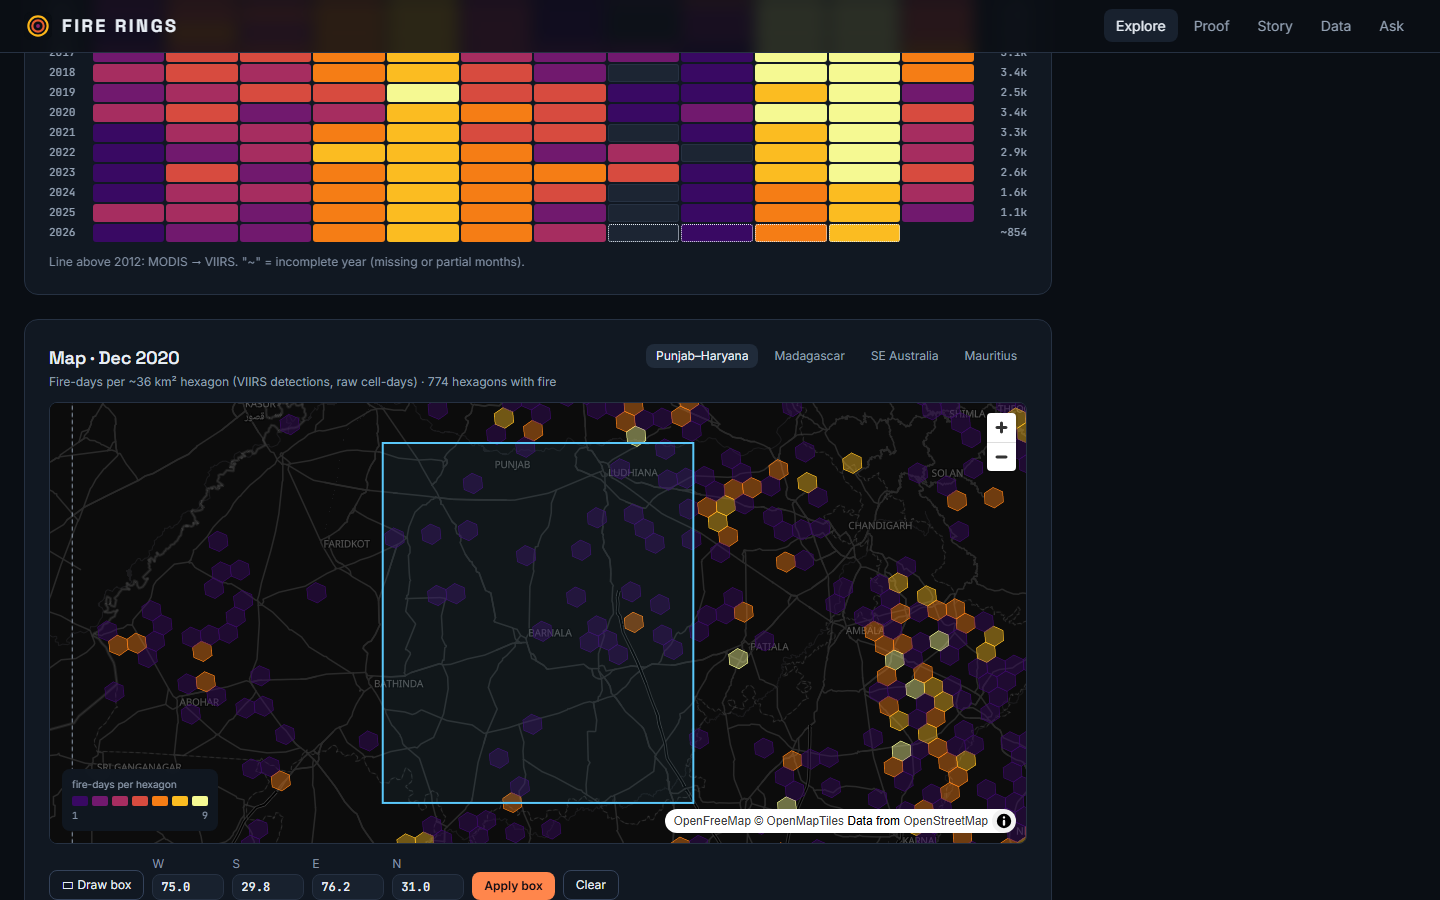
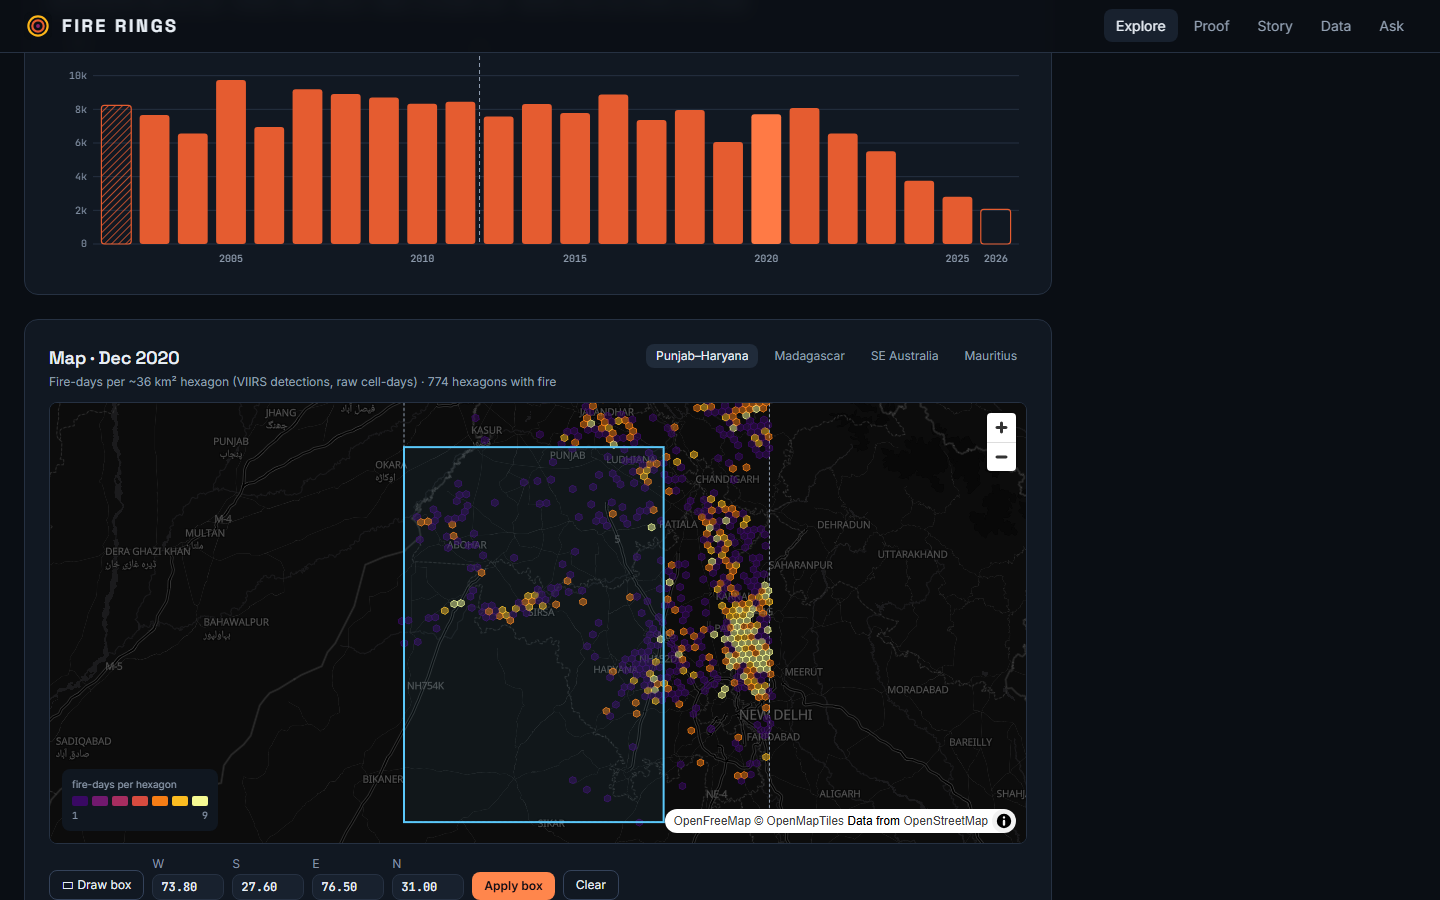
fix(#12,#15,#16,#52,#58): charts keep size; box keeps charts and is clipped; Ask turns keep their own errors; cache style label

diff --git a/web/src/components/MapView.tsx b/web/src/components/MapView.tsx
@@ -83,6 +83,8 @@ export default function MapView({ doc, y, m, box, onBox, live }: Props) {
   const navigate = useNavigate()
   const drawRef = useRef(false)
   drawRef.current = drawing
+  const [note, setNote] = useState<string | null>(null)
+  const submitRef = useRef<(b: Box) => void>(() => {})
 
   useEffect(() => {
     if (!el.current) return
@@ -140,10 +142,7 @@ export default function MapView({ doc, y, m, box, onBox, live }: Props) {
       start = null
       mp.dragPan.enable()
       setDrawing(false)
-      if (b[2] - b[0] > 0.02 && b[3] - b[1] > 0.02) {
-        setInputs(b.map((v) => v.toFixed(2)))
-        onBox(b)
-      }
+      if (b[2] - b[0] > 0.02 && b[3] - b[1] > 0.02) submitRef.current(b)
     })
     return () => { mp.remove(); map.current = null }
     // eslint-disable-next-line react-hooks/exhaustive-deps
@@ -198,13 +197,28 @@ export default function MapView({ doc, y, m, box, onBox, live }: Props) {
 
   useEffect(() => { if (map.current) map.current.getCanvas().style.cursor = drawing ? 'crosshair' : '' }, [drawing])
 
+  // QA #16: a box can only cover data that exists → clip it to the region's data area; refuse boxes outside it
+  const clip = (b: Box): Box | null => {
+    const r = doc.bbox
+    const c: Box = [Math.max(b[0], r[0]), Math.max(b[1], r[1]), Math.min(b[2], r[2]), Math.min(b[3], r[3])]
+    return c[0] < c[2] && c[1] < c[3] ? c : null
+  }
+  const submit = (b: Box) => {
+    const c = clip(b)
+    if (!c) { setErr(`This box is outside ${doc.name}. Only data inside the dotted data area is available.`); setNote(null); return }
+    const changed = c.some((v, i) => Math.abs(v - b[i]) > 1e-6)
+    setErr(null)
+    setNote(changed ? `Only data inside ${doc.name} is available — box clipped to ${c.map((v) => v.toFixed(2)).join(', ')}.` : null)
+    setInputs(c.map((v) => v.toFixed(2)))
+    onBox(c)
+    map.current?.fitBounds(c as [number, number, number, number], { padding: 40 })
+  }
   const apply = () => {
     const v = inputs.map(Number)
-    if (v.some((x) => !Number.isFinite(x)) || v[0] >= v[2] || v[1] >= v[3]) { setErr('Box must be W < E and S < N (decimal degrees).'); return }
-    setErr(null)
-    onBox(v as Box)
-    map.current?.fitBounds(v as [number, number, number, number], { padding: 40 })
+    if (v.some((x) => !Number.isFinite(x)) || v[0] >= v[2] || v[1] >= v[3]) { setErr('Box must be West < East and South < North (decimal degrees).'); return }
+    submit(v as Box)
   }
+  submitRef.current = submit
   const inset = doc.geo?.inset
   const toggleInset = () => {
     if (!inset || !map.current) return
@@ -274,7 +288,7 @@ export default function MapView({ doc, y, m, box, onBox, live }: Props) {
           </label>
         ))}
         <button onClick={apply} className="rounded-sm bg-accent px-3 py-1.5 font-semibold text-bg hover:brightness-110">Apply box</button>
-        {box && <button onClick={() => { onBox(null); setInputs(view.map((v) => v.toFixed(2))) }}
+        {box && <button onClick={() => { onBox(null); setNote(null); setInputs(view.map((v) => v.toFixed(2))) }}
           className="rounded-sm border border-border-strong px-3 py-1.5 text-text hover:bg-surface-2">Clear</button>}
         {live?.ok && (
           <label className="ml-auto flex items-center gap-1.5 text-muted">
@@ -283,6 +297,7 @@ export default function MapView({ doc, y, m, box, onBox, live }: Props) {
           </label>
         )}
       </div>
+      {note && <p className="mt-2 rounded-sm border border-warn/40 bg-warn/10 px-3 py-1.5 text-xs text-warn" role="status">{note}</p>}
       <p className="mt-2 text-xs text-muted">Hexagons are ~36 km² on purpose: counting presence per hexagon lets old and new satellites be compared fairly. Zoom in to see individual detections.</p>
       <p className="mt-1 text-xs text-faint">
         {small ? 'Detections are shown for every month in this small region.' : pts?.available ? `Individual detections appear from zoom ${POINT_ZOOM}.` : `Individual detections are published for the latest months (${doc.hotspot_months.join(', ')}); older months show hexagons only.`}

diff --git a/web/src/components/AskPanel.tsx b/web/src/components/AskPanel.tsx
@@ -4,29 +4,30 @@ import type { Answer, Voice } from '../lib/ask'
 import { REGIONS } from '../lib/regions'
 import AnswerCard from './AnswerCard'
 
+/** One question and what happened to it — errors stay attached to their own question (QA #58). */
+interface Turn { id: number; question: string; region: string; voice: Voice; status: 'loading' | 'done' | 'error'; answer?: Answer; error?: string }
+
 /** Chat with the grounded analyst. Used in the region drawer and on /ask. */
 export default function AskPanel({ initialRegion, initialQuestion, compact }: { initialRegion?: string; initialQuestion?: string; compact?: boolean }) {
   const [region, setRegion] = useState(initialRegion ?? 'punjab')
   const [voice, setVoice] = useState<Voice>('responder')
   const [q, setQ] = useState('')
-  const [busy, setBusy] = useState(false)
-  const [err, setErr] = useState<string | null>(null)
-  const [answers, setAnswers] = useState<Answer[]>([])
+  const [turns, setTurns] = useState<Turn[]>([])
   const asked = useRef(false)
+  const nextId = useRef(1)
+  const busy = turns.some((t) => t.status === 'loading')
 
   const send = async (question: string) => {
     const text = question.trim()
     if (!text || busy) return
-    setBusy(true)
-    setErr(null)
+    const id = nextId.current++
+    setTurns((ts) => [{ id, question: text, region, voice, status: 'loading' }, ...ts])
+    setQ('')
     try {
       const a = await askFireRings(text, region, voice)
-      setAnswers((xs) => [a, ...xs])
-      setQ('')
+      setTurns((ts) => ts.map((t) => (t.id === id ? { ...t, status: 'done', answer: a } : t)))
     } catch (e) {
-      setErr(`${(e as Error).message}. The charts and numbers on every page still work; the suggested questions may have saved answers.`)
-    } finally {
-      setBusy(false)
+      setTurns((ts) => ts.map((t) => (t.id === id ? { ...t, status: 'error', error: (e as Error).message } : t)))
     }
   }
 
@@ -64,9 +65,25 @@ export default function AskPanel({ initialRegion, initialQuestion, compact }: { 
           {busy ? 'Thinking…' : 'Ask'}
         </button>
       </form>
-      {busy && <div className="h-20 animate-pulse rounded-sm bg-surface-2" aria-label="Waiting for answer" />}
-      {err && <p className="rounded-sm border border-danger/40 bg-danger/10 px-3 py-2 text-xs text-danger" role="alert">{err}</p>}
-      <div className="space-y-3">{answers.map((a, i) => <AnswerCard key={answers.length - i} a={a} />)}</div>
+      <div className="space-y-3" aria-live="polite">
+        {turns.map((t) => (
+          <div key={t.id} data-turn={t.status} className="space-y-2">
+            {t.status === 'loading' && (
+              <div className="rounded-sm border border-border bg-surface-2 p-4 text-sm text-muted">
+                <span className="text-faint">You asked:</span> {t.question}
+                <div className="mt-2 flex items-center gap-2 text-xs"><span className="h-2 w-2 animate-pulse rounded-full bg-accent" />Thinking… looking up numbers</div>
+              </div>
+            )}
+            {t.status === 'error' && (
+              <div className="rounded-sm border border-border bg-surface-2 p-4 text-sm" role="alert">
+                <span className="text-faint">You asked:</span> <span className="text-text">{t.question}</span>
+                <p className="mt-2 text-muted">{t.error}. The charts and numbers on every page still work; the suggested questions have saved answers.</p>
+              </div>
+            )}
+            {t.status === 'done' && t.answer && <AnswerCard a={t.answer} />}
+          </div>
+        ))}
+      </div>
       <p className="text-[11px] text-faint">Answers come from Google Gemini using only numbers looked up from the Fire Rings record (see "Numbers used"). No forecasts.</p>
     </div>
   )

diff --git a/web/src/pages/Region.tsx b/web/src/pages/Region.tsx
@@ -15,6 +15,7 @@ import { useLive } from '../lib/live'
 import LiveBadge from '../components/LiveBadge'
 import { makeColorer } from '../lib/colors'
 import { calibrationSummary } from '../lib/calibration'
+import { boxDerived } from '../lib/boxDerived'
 import { calendarCsv, downloadPng, downloadText } from '../lib/exporters'
 import { fmtInt } from '../lib/format'
 import type { Box } from '../lib/hexes'
@@ -76,13 +77,17 @@ function RegionView({ doc: regionDoc }: { doc: RegionDoc }) {
     if (!box) return
     let alive = true
     import('../lib/hexes').then((h) => h.boxRecord(regionDoc, box))
-      .then((r) => alive && setBoxState({ status: 'ready', months: r.months, cells: r.cells }))
+      .then((r) => alive && setBoxState(r.cells > 0
+        ? { status: 'ready', months: r.months, cells: r.cells }
+        : { status: 'error', error: `No fire hexagons of ${regionDoc.name} fall inside this box since 2001 — showing the whole region.` }))
       .catch((e: Error) => alive && setBoxState({ status: 'error', error: e.message }))
     return () => { alive = false }
   }, [box, regionDoc])
 
   const boxed = box && boxState.status === 'ready' && boxState.months
-  const doc: RegionDoc = useMemo(() => (boxed ? { ...regionDoc, months: boxState.months! } : regionDoc), [boxed, regionDoc, boxState.months])
+  const doc: RegionDoc = useMemo(() => (boxed
+    ? { ...regionDoc, months: boxState.months!, ...boxDerived(regionDoc, boxState.months!) }
+    : regionDoc), [boxed, regionDoc, boxState.months])
   const effMode: CalMode = boxed ? 'counts' : mode
   const colorer = useMemo(() => makeColorer(doc, effMode, t), [doc, effMode, t])
   const grid = useMemo(() => toGrid(doc.months), [doc])
@@ -152,7 +157,7 @@ function RegionView({ doc: regionDoc }: { doc: RegionDoc }) {
             </div>
           )}
           {box && boxState.status === 'loading' && <p className="text-sm text-muted" aria-live="polite">Recomputing 2001–2026 for the box…</p>}
-          {box && boxState.status === 'error' && <p className="text-sm text-danger">Box failed: {boxState.error}</p>}
+          {box && boxState.status === 'error' && <p className="rounded-sm border border-warn/40 bg-warn/10 px-3 py-2 text-sm text-warn" role="status">{boxState.error}</p>}
 
           <section aria-labelledby="rings-h" className="card">
             <div className="mb-4 flex flex-wrap items-center justify-between gap-3">
@@ -199,10 +204,10 @@ function RegionView({ doc: regionDoc }: { doc: RegionDoc }) {
               : <GridCalendar grid={grid} colorOf={colorer.colorOf} glyphOf={colorer.glyphOf} mode={viewMode} active={active} onActive={setActive} onSelect={onSelect} label={label} />}
           </section>
 
-          {!boxed && regionDoc.harmonized && (
-            <div className="grid gap-6 2xl:grid-cols-2">
-              <SeasonalityChart doc={regionDoc} year={insightCell?.y ?? last.y} />
-              <AnnualBars doc={regionDoc} selectedYear={insightCell?.y} />
+          {regionDoc.harmonized && (
+            <div className="grid gap-6 2xl:grid-cols-2" data-testid="charts">
+              <SeasonalityChart doc={doc} year={insightCell?.y ?? last.y} />
+              <AnnualBars doc={doc} selectedYear={insightCell?.y} />
             </div>
           )}
 

diff --git a/web/src/lib/boxDerived.ts b/web/src/lib/boxDerived.ts
@@ -1,0 +1,37 @@
+import type { AnnualRec, MonthRec, RegionDoc } from './types'
+
+const q = (arr: number[], p: number) => {
+  const s = [...arr].sort((a, b) => a - b)
+  if (!s.length) return 0
+  const i = (s.length - 1) * p
+  const lo = Math.floor(i)
+  return s[lo] + (s[Math.min(lo + 1, s.length - 1)] - s[lo]) * (i - lo)
+}
+
+/**
+ * For a custom box: climatology (baseline median, P10, P90) and annual totals recomputed from the box's own monthly
+ * values, so Seasonality and Annual totals keep working in box view (QA #15). No bootstrap intervals for boxes.
+ */
+export function boxDerived(doc: RegionDoc, months: MonthRec[]): Pick<RegionDoc, 'climatology' | 'annual'> {
+  const [b0, b1] = doc.baseline
+  const median: number[] = []
+  const p10: number[] = []
+  const p90: number[] = []
+  const n: number[] = []
+  for (let m = 1; m <= 12; m++) {
+    const v = months.filter((r) => r.m === m && r.y >= b0 && r.y <= b1 && r.H != null).map((r) => r.H!)
+    median.push(Math.round(q(v, 0.5) * 10) / 10)
+    p10.push(Math.round(q(v, 0.1) * 10) / 10)
+    p90.push(Math.round(q(v, 0.9) * 10) / 10)
+    n.push(v.length)
+  }
+  const annual: AnnualRec[] = [...new Set(months.map((r) => r.y))].map((y) => {
+    const ms = months.filter((r) => r.y === y)
+    const vals = ms.map((r) => r.H)
+    const terra = ms.filter((r) => r.src === 'T').length
+    const complete = ms.length === 12 && vals.every((v) => v != null) && !ms.some((r) => r.flags.includes('mtd'))
+    return { y, H: vals.some((v) => v == null) ? null : Math.round(vals.reduce((a, b) => a! + b!, 0)! * 10) / 10,
+      lo: null, hi: null, complete, terra_only_months: terra, rankable: complete && terra === 0 }
+  })
+  return { climatology: { median, p10, p90, n }, annual }
+}

diff --git a/web/src/lib/ask.ts b/web/src/lib/ask.ts
@@ -19,12 +19,14 @@ export const CHIPS = ['Is this month unusual?', 'Worst year on record?', 'When d
 
 interface CacheDoc { data_end: string; chips: string[]; entries: Record<string, Omit<Answer, 'source' | 'voice'> & { generated: string }> }
 
-async function fromCache(question: string, region?: string): Promise<Answer | null> {
+/** Saved answer for the selected style first; the badge always shows the style the answer was really written in (QA #52). */
+async function fromCache(question: string, region: string | undefined, voice: Voice): Promise<Answer | null> {
   if (!region) return null
   try {
     const c = await fetchJson<CacheDoc>('ask_cache.json')
-    const e = c.entries[`${region}|${question}`]
-    return e ? { ...e, voice: 'responder', source: 'cache' } : null
+    const e = c.entries[`${region}|${question}|${voice}`] ?? c.entries[`${region}|${question}`]
+    if (!e) return null
+    return { ...e, voice: (e as { voice?: Voice }).voice ?? 'responder', source: 'cache' }
   } catch {
     return null
   }
@@ -40,7 +42,7 @@ export async function askFireRings(question: string, region: string | undefined,
     if (!r.ok || j.error) throw new Error(r.status === 429 ? 'Too many questions — please wait a minute' : 'AI temporarily unavailable')
     return { ...j, question, region, voice, source: 'live' }
   } catch (e) {
-    const cached = await fromCache(question, region)
+    const cached = await fromCache(question, region, voice)
     if (cached) return cached
     throw new Error((e as Error).name === 'AbortError' ? 'AI temporarily unavailable (no answer within 30 seconds)' : (e as Error).message || 'AI temporarily unavailable')
   } finally {

diff --git a/web/src/lib/useWidth.ts b/web/src/lib/useWidth.ts
@@ -1,13 +1,17 @@
 import { useEffect, useRef, useState } from 'react'
 
-/** Observe an element's content width (for responsive SVG charts). */
+/** Observe an element's content width (for responsive SVG charts). Ignores zero widths (element hidden), so a chart
+ *  that is hidden and shown again keeps / regains its full width instead of shrinking (QA #12). */
 export function useWidth<T extends HTMLElement>(initial = 320) {
   const ref = useRef<T>(null)
   const [w, setW] = useState(initial)
   useEffect(() => {
     const el = ref.current
     if (!el) return
-    const ro = new ResizeObserver(([e]) => setW(Math.max(240, Math.round(e.contentRect.width))))
+    const ro = new ResizeObserver(([e]) => {
+      const cw = Math.round(e.contentRect.width)
+      if (cw > 0) setW(Math.max(240, cw))
+    })
     ro.observe(el)
     return () => ro.disconnect()
   }, [])

diff --git a/web/src/components/ChartCard.tsx b/web/src/components/ChartCard.tsx
@@ -27,7 +27,9 @@ export default function ChartCard({ title, subtitle, table, children, actions, i
           </button>
         </div>
       </div>
-      {asTable ? <DataTable spec={table} /> : children}
+      {/* keep the chart mounted (hidden) while the table shows, so it never re-measures at the wrong width (QA #12) */}
+      <div hidden={asTable} data-chart-body>{children}</div>
+      {asTable && <DataTable spec={table} />}
     </section>
   )
 }

diff --git a/PROGRESS.md b/PROGRESS.md
@@ -4,6 +4,10 @@ Resume any session with: **"Continue from PROGRESS.md"** (read this file + CLAUD
 Status keys: `todo` · `doing` · `done` · `blocked`
 Live: https://fire-rings.vercel.app (Vercel, root = web, auto-deploys on push to main)
 
+## QA run — 10 Nov (docs/QA_ISSUES.md items) — running log
+- **Phase 0 (numbers) ✅** #23 return period now = 100/(100−p) from the shown percentile range (60 months disagreed before; e.g. SE Australia Jul 2025 66th–71st pct: "1-in-4" → "about 1-in-3"); unit + output tests. Long-term snapshot test added — harmonized values unchanged. #29 drawer shows "VIIRS n · MODIS n". #30 satellite gap days hatched in the daily chart; SE Aus 26–27 Jul 2025 checked = real low (S-NPP operating, normal counts elsewhere in Australia). #35 one plain calibration sentence per region shared by Provenance/Proof/METHODS. #37 every Proof card has a status; V9 scored only against a sourced event (Black Summer → Royal Commission tabling release), other regions "info" with a reason. #43 Mauritius shows "too little fire to validate reliably". #45 Punjab August k=1.20 = small-sample noise (126 vs 92 fire-days in 8 years, 0.13% of fire-days), labelled "few fires — low reliability" (months < 200 fire-days); documented in METHODS + validation_report. #48 timing reports now real checked links (NASA Earth Observatory; ISRO via ThePrint; iFOREST via The Tribune).
+- **Phase 1 (bugs) ✅** #12 charts stay mounted when the table shows (no shrink) + e2e; #15 Seasonality/Annual totals recomputed for a box (no vanishing) + e2e; #16 box clipped to the region with a warning, outside/empty boxes refused + e2e; #58 Ask keeps each question with its own answer/error; #52 cached answers are labelled with the style they were written in (both styles regenerated in Phase 2).
+
 ## ⚠ BLOCKER: live layer needs FIRMS_MAP_KEY in Vercel Production
 Production `/api/live?region=punjab` currently returns `{"ok":false,"error":"not_configured"}`. The deployed function can't see `FIRMS_MAP_KEY` (deploy `cfe4170`, built after the push). The code works: locally with the same key it returns Punjab 1,921 and Madagascar 9,236 detections. The UI shows "LIVE · feed temporarily unavailable" as designed.
 **To fix (2 min):**
